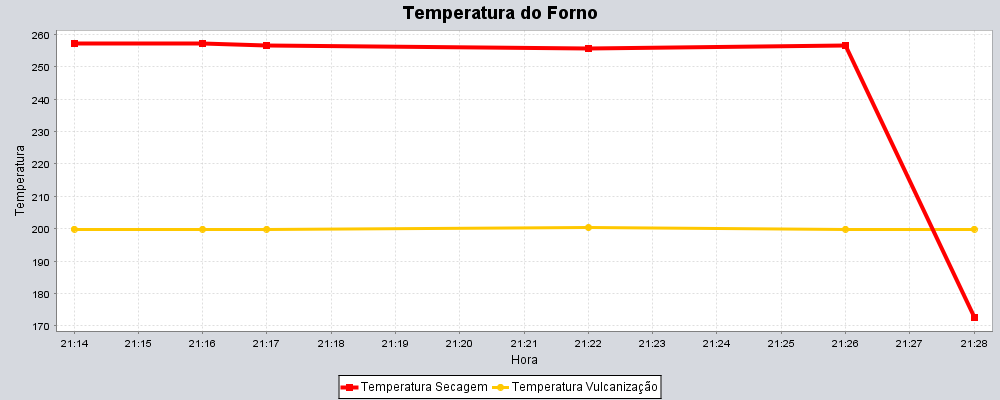
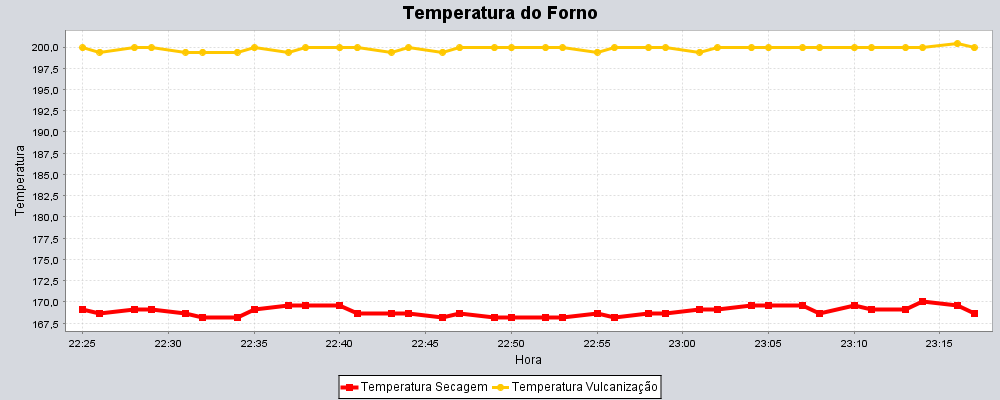
Classe grafico carregando só 1 hora

diff --git a/src/view/ViewTemperatura.java b/src/view/ViewTemperatura.java
@@ -28,62 +28,60 @@ public class ViewTemperatura extends javax.swing.JFrame {
      */
     public ViewTemperatura() {
         initComponents();
-        ArduinoSerial arduino = new ArduinoSerial(Config.loadConfig(ConfigList.ArduinoCom)); 
+        ArduinoSerial arduino = new ArduinoSerial(Config.loadConfig(ConfigList.ArduinoCom));
         String log = "Inicializando o Sistema";
-        geraLog(log);        
+        geraLog(log);
         carregaGrafico();
 
-       
         Thread tr1 = new Thread() {
-            @Override            
+            @Override
             public void run() {
-                 String lastLog = "";
-                
-                 try {          
-                arduino.initialize();
-                arduino.sleep(10000);
-                System.out.println("Saida arduino: "+arduino.read());
-  
-                while (true) {
-                    arduino.sleep(3000);
-                    //System.out.print("Saida arduino: "+arduino.read());
-                        if(arduino.read() != null){   
-                        String[] dados = arduino.read().split(",");
-                        String z1 = dados[0];
-                        String z2 = dados[1];
-                        String estado = dados[2];
-                        String cmdSalvar = dados[3];
-                        
-                        try{
-                        lblZ1.setText(z1);
-                        lblZ2.setText(z2);
-                        lblEstado.setText(estado);
-                        
-                        if (!"Comunicação estabelecida".equals(lastLog)){
-                            geraLog("Comunicação estabelecida");
-                            lastLog = "Comunicação estabelecida";
-                        }
-                        
-                            LeituraMaquina leitura = new LeituraMaquina(Double.parseDouble(z1), Double.parseDouble(z2), estado);
+                String lastLog = "";
 
-                        if ("salvar".equals(cmdSalvar)) {
-                            System.out.println("Registro " + Utils.getDataSistema());
-                            Gravador.write(leitura);
-                            carregaGrafico();
-                        }}
-                        catch(NumberFormatException e){
-                            System.out.println("Erro ao carregar valores");
-                            if (!"Erro ao carregar os valores".equals(lastLog)){
-                            erroLog("Erro ao carregar os valores");
-                            lastLog = "Erro ao carregar os valores";
-                        }
-                            
-                        }
-                    }
-                       else if (!"Leitura do arduino Nula".equals(lastLog)){
+                try {
+                    arduino.initialize();
+                    arduino.sleep(10000);
+                    System.out.println("Saida arduino: " + arduino.read());
+
+                    while (true) {
+                        arduino.sleep(3000);
+                        //System.out.print("Saida arduino: "+arduino.read());
+                        if (arduino.read() != null) {
+                            String[] dados = arduino.read().split(",");
+                            String z1 = dados[0];
+                            String z2 = dados[1];
+                            String estado = dados[2];
+                            String cmdSalvar = dados[3];
+
+                            try {
+                                lblZ1.setText(z1);
+                                lblZ2.setText(z2);
+                                lblEstado.setText(estado);
+
+                                if (!"Comunicação estabelecida".equals(lastLog)) {
+                                    geraLog("Comunicação estabelecida");
+                                    lastLog = "Comunicação estabelecida";
+                                }
+
+                                LeituraMaquina leitura = new LeituraMaquina(Double.parseDouble(z1), Double.parseDouble(z2), estado);
+
+                                if ("salvar".equals(cmdSalvar)) {
+                                    System.out.println("Registro " + Utils.getDataSistema());
+                                    Gravador.write(leitura);
+                                    carregaGrafico();
+                                }
+                            } catch (NumberFormatException e) {
+                                System.out.println("Erro ao carregar valores");
+                                if (!"Erro ao carregar os valores".equals(lastLog)) {
+                                    erroLog("Erro ao carregar os valores");
+                                    lastLog = "Erro ao carregar os valores";
+                                }
+
+                            }
+                        } else if (!"Leitura do arduino Nula".equals(lastLog)) {
                             erroLog("Leitura do arduino Nula");
                             lastLog = "Leitura do arduino Nula";
-                       }
+                        }
                     }
                 } catch (UnsatisfiedLinkError e) {
                     erroLog("Erro ao acessar o Arduino");
@@ -333,54 +331,32 @@ public class ViewTemperatura extends javax.swing.JFrame {
 
     private void geraLog(String log) {
         txtLog.setDisabledTextColor(Color.black);
-        txtLog.append ("[" + Utils.getDataHoraSistema() + "] " + log + "\n");
+        txtLog.append("[" + Utils.getDataHoraSistema() + "] " + log + "\n");
     }
-
 
     private void erroLog(String msg) {
         System.err.println(msg);
         geraLog(msg);
         txtLog.setDisabledTextColor(Color.red);
     }
-    /*
-    private void carregaGrafico(List<LeituraMaquina> lstZonasTemp){
-        
+
+    private void carregaGrafico() {
         Grafico chart = new Grafico("Temperatura de Secagem dos fornos ICBT's",
-        "Temperatura do Forno", lstZonasTemp);
+                "Temperatura do Forno");
         chart.pack();
         RefineryUtilities.centerFrameOnScreen(chart);
         chart.setVisible(false);
         final String path = "Grafico.png";
-        
-        try {  
-             java.awt.Image nGrafico = Toolkit.getDefaultToolkit().getImage(path);  
-             nGrafico.flush();
-             this.lblGrafico.setIcon(new ImageIcon(nGrafico));
-            //lblGrafico.setIcon(( new Image(("Grafico.png")));
-        } catch (NullPointerException e) {
-            erroLog("Erro ao gerar o grafico");
-        }
-        
-    }*/
-    
-    private void carregaGrafico(){
-        Grafico chart = new Grafico("Temperatura de Secagem dos fornos ICBT's",
-        "Temperatura do Forno");
-        chart.pack();
-        RefineryUtilities.centerFrameOnScreen(chart);
-        chart.setVisible(false);
-        final String path = "Grafico.png";
-        
-        try {  
-             java.awt.Image nGrafico = Toolkit.getDefaultToolkit().getImage(path);  
-             nGrafico.flush();
-             lblGrafico.setIcon(new ImageIcon(nGrafico));
-          
+
+        try {
+            java.awt.Image nGrafico = Toolkit.getDefaultToolkit().getImage(path);
+            nGrafico.flush();
+            lblGrafico.setIcon(new ImageIcon(nGrafico));
+
         } catch (NullPointerException e) {
             erroLog("Erro ao gerar o grafico");
         }
     }
-    
 
 
     // Variables declaration - do not modify//GEN-BEGIN:variables

diff --git a/src/arduino/util/Grafico.java b/src/arduino/util/Grafico.java
@@ -22,8 +22,9 @@ import java.io.IOException;
 import java.io.OutputStream;
 import java.text.ParseException;
 import java.text.SimpleDateFormat;
+import java.util.Calendar;
+import java.util.Date;
 import java.util.TimeZone;
-import java.util.logging.Level;
 import java.util.logging.Logger;
 import org.jfree.chart.ChartPanel;
 import org.jfree.chart.JFreeChart;
@@ -69,46 +70,6 @@ public class Grafico extends ApplicationFrame {
         }
     }
 
-    /*
-    public Grafico(String applicationTitle, String chartTitle) {
-        super(applicationTitle);
-
-        JFreeChart xylineChart = ChartFactory.createTimeSeriesChart(
-                chartTitle,
-                "Hora",
-                "Temperatura",
-                createDataset(Zt),
-                true, true, false);
-
-        ChartPanel chartPanel = new ChartPanel(xylineChart);
-        chartPanel.setPreferredSize(new java.awt.Dimension());
-        final XYPlot plot = xylineChart.getXYPlot();
-
-        XYLineAndShapeRenderer renderer = new XYLineAndShapeRenderer();
-        renderer.setSeriesPaint(0, Color.RED);
-        renderer.setSeriesPaint(1, Color.ORANGE);
-        renderer.setSeriesStroke(0, new BasicStroke(4.0f));
-        renderer.setSeriesStroke(1, new BasicStroke(3.0f));
-        plot.setRenderer(renderer);
-        setContentPane(chartPanel);
-        OutputStream png;
-
-        try {
-            png = new FileOutputStream(Config.loadConfig(ConfigList.ChartPath));
-            ChartUtilities.writeChartAsPNG(png, xylineChart, 1000, 400);
-        } catch (IOException e) {
-            System.err.println("Erro ao gerar Grafico: " + e.getMessage());
-        }
-    }
-/*
-    private XYDataset createDataset() {
-        final TimeSeries z1 = new TimeSeries("Temperatura Secagem", Minute.class);
-        final TimeSeries z2 = new TimeSeries("Temperatura Vulcanização", Minute.class);
-
-        final TimeSeriesCollection dataset = new TimeSeriesCollection();
-        return dataset;
-    }
-     */
     private XYDataset createDataset() {
         final TimeSeries z1 = new TimeSeries("Temperatura Secagem", Minute.class);
         final TimeSeries z2 = new TimeSeries("Temperatura Vulcanização", Minute.class);
@@ -118,12 +79,24 @@ public class Grafico extends ApplicationFrame {
         try (BufferedReader br = new BufferedReader(new FileReader(path))) {
             String line = br.readLine();
             SimpleDateFormat sdf = new SimpleDateFormat("dd/MM/yyyy HH:mm:ss");
-
+            
+            Calendar cal = Calendar.getInstance();
+            Date d1 =new Date(System.currentTimeMillis());
+            
+            cal.setTime(d1);
+            cal.add(Calendar.HOUR_OF_DAY, -1);
+            d1 = cal.getTime();
+            
             while (line != null) {
                 String[] cut = line.split(", ");
                 try {
-                    z1.add(new Minute(sdf.parse(cut[0]), TimeZone.getDefault()), Double.parseDouble(cut[1]));
-                    z2.add(new Minute(sdf.parse(cut[0]), TimeZone.getDefault()), Double.parseDouble(cut[2]));
+
+                    if (sdf.parse(cut[0]).after(d1)) {
+
+                        z1.add(new Minute(sdf.parse(cut[0]), TimeZone.getDefault()), Double.parseDouble(cut[1]));
+                        z2.add(new Minute(sdf.parse(cut[0]), TimeZone.getDefault()), Double.parseDouble(cut[2]));
+                    }
+
                 } catch (ParseException ex) {
                     Logger.getLogger("Erro ao tentar converter os dados do registro: " + ex.getMessage());
                 }

diff --git a/src/view/ViewHelp.java b/src/view/ViewHelp.java
@@ -108,12 +108,12 @@ public class ViewHelp extends javax.swing.JDialog {
 
     private void linkLabelMouseClicked(java.awt.event.MouseEvent evt) {//GEN-FIRST:event_linkLabelMouseClicked
         try {
-		
-		Desktop.getDesktop().browse(new URI(Config.loadConfig(ConfigList.CloudFolder)));
-		
-	} catch (IOException | URISyntaxException e1) {
+
+            Desktop.getDesktop().browse(new URI(Config.loadConfig(ConfigList.CloudFolder)));
+
+        } catch (IOException | URISyntaxException e1) {
             System.out.println("Erro ao tentar abri a Url: " + e1.getMessage());
-	}
+        }
     }//GEN-LAST:event_linkLabelMouseClicked
 
     private void linkLabelMouseEntered(java.awt.event.MouseEvent evt) {//GEN-FIRST:event_linkLabelMouseEntered
@@ -129,8 +129,6 @@ public class ViewHelp extends javax.swing.JDialog {
         // TODO add your handling code here:
     }//GEN-LAST:event_txtLinkActionPerformed
 
- 
-    
     /**
      * @param args the command line arguments
      */
@@ -157,8 +155,7 @@ public class ViewHelp extends javax.swing.JDialog {
             java.util.logging.Logger.getLogger(ViewHelp.class.getName()).log(java.util.logging.Level.SEVERE, null, ex);
         }
         //</editor-fold>
-        
-        
+
         /* Create and display the dialog */
         java.awt.EventQueue.invokeLater(new Runnable() {
             public void run() {

diff --git a/src/model/entities/LeituraMaquina.java b/src/model/entities/LeituraMaquina.java
@@ -13,21 +13,21 @@ import java.util.Date;
  * @author Herbert
  */
 public class LeituraMaquina {
-    
+
     private Double temp1;
     private Double temp2;
     private String Estado;
     private Date currentData;
-    
+
     public LeituraMaquina() {
     }
-   
+
     public LeituraMaquina(Double temp1, Double temp2, String Estado) {
         this.temp1 = temp1;
         this.temp2 = temp2;
         this.Estado = Estado;
     }
-    
+
     public Double getTemp1() {
         return temp1;
     }
@@ -51,17 +51,14 @@ public class LeituraMaquina {
     public void setEstado(String Estado) {
         this.Estado = Estado;
     }
-    
+
     public Date getTimeStamp() {
         return currentData;
     }
-    
-    
+
     @Override
     public String toString() {
-        return  Utils.getDataHoraSistema()+", " + temp1 + ", " + temp2 + ", " + Estado;
+        return Utils.getDataHoraSistema() + ", " + temp1 + ", " + temp2 + ", " + Estado;
     }
-   
-    
-    
+
 }

diff --git a/src/javaarduino/JavaArduino.java b/src/javaarduino/JavaArduino.java
@@ -5,8 +5,6 @@
  */
 package javaarduino;
 
-import model.dao.TemperaturaDAO;
-
 /**
  *
  * @author Herbert
